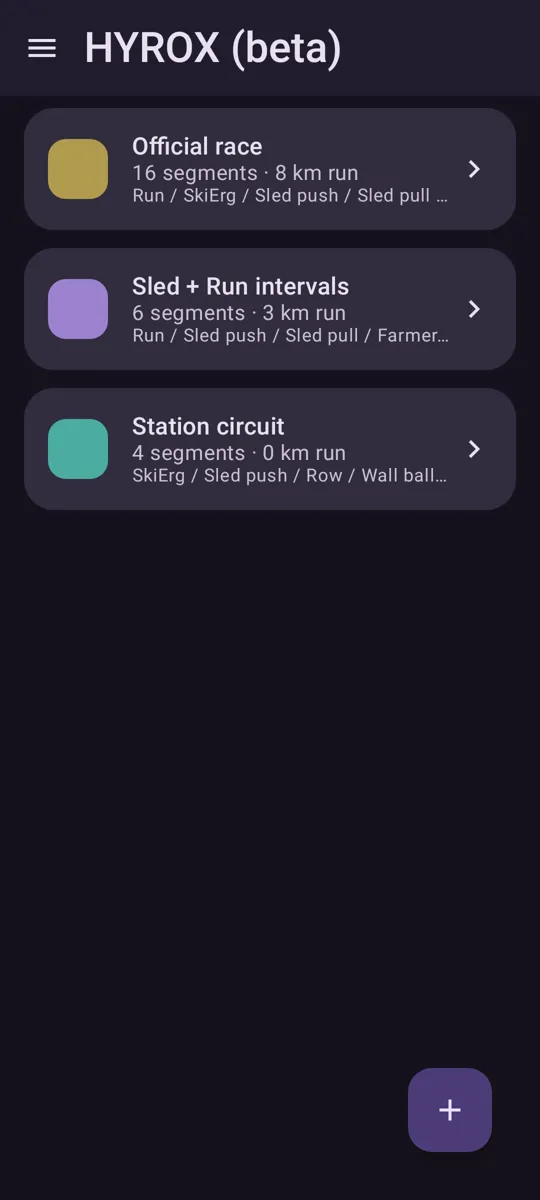
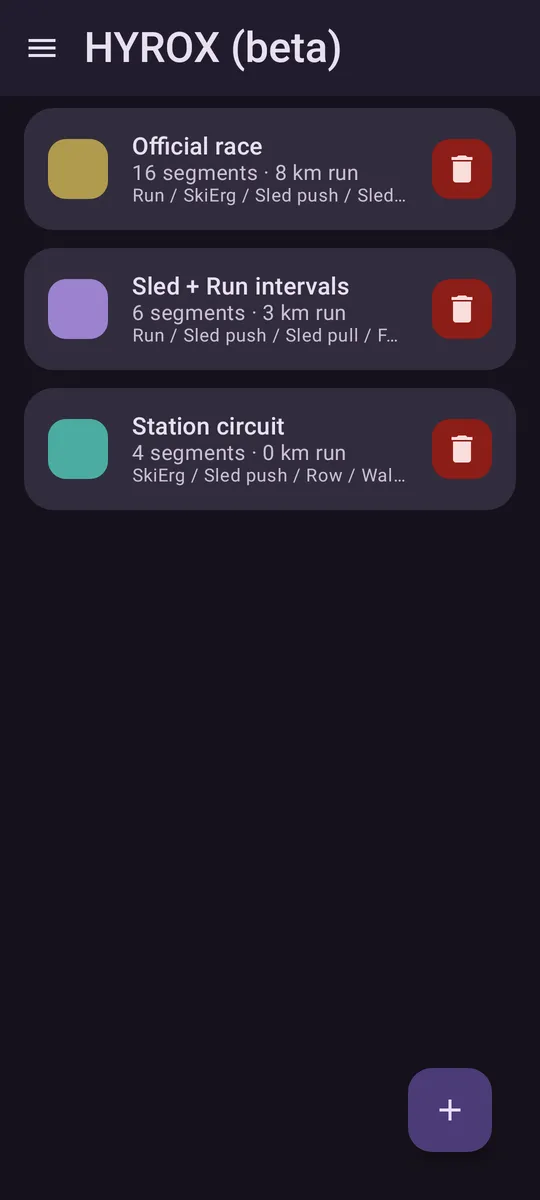
Help: update to Liftloq 2.1.0 (Bodybuilding rename, HYROX delete + Full race, Results after Save)

diff --git a/help/index.html b/help/index.html
@@ -21,7 +21,7 @@
 </head>
 <body>
   <h1>How to use Liftloq</h1>
-  <p class="meta">Local workout calendar · No account required · Updated for version 2.0.9</p>
+  <p class="meta">Local workout calendar · No account required · Updated for version 2.1.0</p>
 
   <p>Liftloq keeps your workout plan on your device. Mark days on the calendar, manage workout types, plan and time HYROX workouts, and optionally track supplement spending — without signing in.</p>
 
@@ -42,16 +42,16 @@
     <img src="images/help-day-sheet.webp" alt="Day sheet with 3 of 3 entries picked" loading="lazy" width="540" height="1200" />
     <figcaption>Day sheet at the limit: 3 of 3 picked, the rest is disabled.</figcaption>
   </figure>
-  <h2>2. Add and remove workout types</h2>
+  <h2>2. Add and remove Bodybuilding types</h2>
   <ol class="steps">
-    <li>Open the menu (☰) → <strong>Workout types</strong>. Or on a day sheet, tap <strong>Manage types</strong>.</li>
+    <li>Open the menu (☰) → <strong>Bodybuilding</strong>. Or on a day sheet, tap <strong>Manage types</strong>.</li>
     <li>To add: tap <strong>+</strong>, enter a name, pick a color, then tap <strong>Save</strong>.</li>
     <li>To remove: tap the trash icon on a type, then confirm <strong>Delete</strong>.</li>
   </ol>
 
   <figure>
-    <img src="images/help-workout-types.webp" alt="Workout types list with delete and plus button" loading="lazy" width="540" height="1200" />
-    <figcaption>Workout types (Bodybuilding): delete with trash, add with <strong>+</strong>.</figcaption>
+    <img src="images/help-workout-types.webp" alt="Bodybuilding types list with delete and plus button" loading="lazy" width="540" height="1200" />
+    <figcaption>Bodybuilding: delete with trash, add with <strong>+</strong>.</figcaption>
   </figure>
 
   <h2>3. Track supplements (Supps money pit)</h2>
@@ -69,7 +69,8 @@
 
   <h2>4. HYROX β</h2>
   <ol class="steps">
-    <li><strong>Builder:</strong> menu (☰) → <strong>HYROX (beta)</strong> → <strong>+</strong>. Name the workout, pick a colour, division and segments (runs and stations with distance/weight), then <strong>Save</strong>.</li>
+    <li><strong>Builder:</strong> menu (☰) → <strong>HYROX (beta)</strong> → <strong>+</strong>. Name the workout, pick a colour and division, add segments (or tap <strong>+ Full race</strong> for the 16 official ones), then <strong>Save</strong>. If segments already exist, Full race asks to replace them.</li>
+    <li><strong>Delete:</strong> on the HYROX list, tap the red trash on a workout (or Delete inside the editor). Confirm — sessions are removed and the workout is cleared from every calendar day. Official race is not re-seeded after you delete it.</li>
     <li><strong>Plan it:</strong> on a day sheet, open <strong>HYROX workouts</strong> and pick one or more, then <strong>Save</strong>.</li>
     <li><strong>Start HYROX:</strong> on a day with a planned HYROX workout, a <strong>Start HYROX</strong> button appears above the add button. With several planned, it opens a menu to choose one.</li>
     <li><strong>Race mode:</strong> tap <strong>Split</strong> at the end of each segment. <strong>Pause</strong> freezes the clock (paused time is not counted), <strong>Resume</strong> continues, the undo button removes the last split. <strong>Finish</strong> (top bar) asks for confirmation. Then review and <strong>Save</strong>; results show with an <strong>OK</strong> button back to the calendar.</li>
@@ -80,6 +81,15 @@
     <img src="images/help-hyrox-page.webp" alt="HYROX page with workout templates" loading="lazy" width="540" height="1200" />
     <figcaption>Your HYROX workouts.</figcaption>
   </figure>
+  <figure>
+    <img src="images/help-hyrox-delete.webp" alt="Confirm delete HYROX workout dialog" loading="lazy" width="540" height="1200" />
+    <figcaption>Delete confirm: sessions and calendar days are counted before you confirm.</figcaption>
+  </figure>
+  <figure>
+    <img src="images/help-hyrox-full-race.webp" alt="New HYROX workout filled with Full race" loading="lazy" width="540" height="1200" />
+    <figcaption>New workout: <strong>+ Add segment</strong> and <strong>+ Full race</strong> sit side by side.</figcaption>
+  </figure>
+
   <figure>
     <img src="images/help-hyrox-builder.webp" alt="HYROX workout builder" loading="lazy" width="540" height="1200" />
     <figcaption>Builder: name, colour, division and segments.</figcaption>
@@ -98,7 +108,7 @@
   </figure>
   <figure>
     <img src="images/help-results.webp" alt="HYROX results after saving" loading="lazy" width="540" height="1200" />
-    <figcaption>Results after saving, with OK back to the calendar.</figcaption>
+    <figcaption>Results after saving: This session / Trend tabs, with OK back to the calendar.</figcaption>
   </figure>
   <figure>
     <img src="images/help-stats-hyrox.webp" alt="Stats HYROX tab" loading="lazy" width="540" height="1200" />
@@ -126,7 +136,7 @@
   </ol>
 
   <div class="tip">
-    <strong>Tip:</strong> Swipe left below the calendar to cycle <strong>Calendar → Workout types → HYROX β → Stats → Supps money pit</strong>. Pages for a mode that is off are skipped. Settings stays in the menu only.
+    <strong>Tip:</strong> Swipe left below the calendar to cycle <strong>Calendar → Bodybuilding → HYROX β → Stats → Supps money pit</strong>. Pages for a mode that is off are skipped. Settings stays in the menu only.
   </div>
 
   <h2>Privacy &amp; contact</h2>
